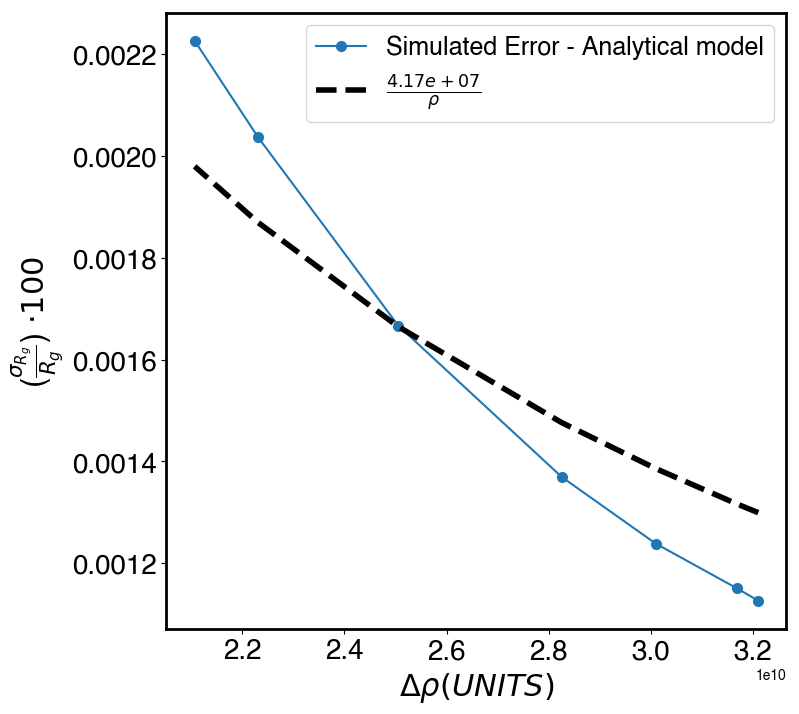
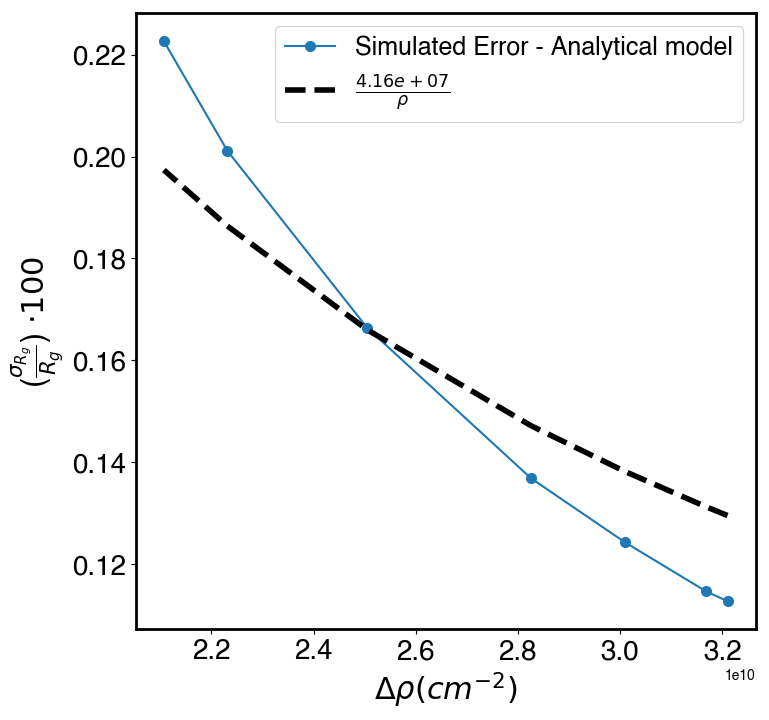
Really roughly added in experimental relative percent Rg error from Cytochrome C to compare to simulations. Need to clean up how this is integrated into the code. Simulation underpreicts error.

diff --git a/SAXSProf.py b/SAXSProf.py
@@ -203,19 +203,34 @@ rho, Rg_error_contrast, sig2_Rg_out = err_data.calc_errRg_contrast()
 err_data.plot_S1(rho, [x * 100 for x in Rg_error_contrast],
                  plotlabel= 'Simulated Error',
                  savelabel = 'Sim_err_Rg_func_of_Contrast',
-                 xlabel = '$\Delta \\rho (UNITS)$',
+                 xlabel = '$\Delta \\rho (cm^{-2})$',
                  ylabel = '($\\frac{\sigma_{R_{g}}}{R_{g}}$) $\cdot 100$')
 
 
 model, c, Rg_error_contrast = err_data.rgErr_contrast_model()
 
-err_data.plot_S2(rho, Rg_error_contrast, model,
+err_data.plot_S2(rho, [x * 100 for x in Rg_error_contrast], [x * 100 for x in model],
                  plotlabel1 = 'Simulated Error - Analytical model',
                  plotlabel2 = '$\\frac{%s}{\\rho}$' % "{:.2e}".format(c[0]),
                  savelabel = 'Sim_err_Rg_func_of_Contrast_w_InvRho',
-                 xlabel = '$\Delta \\rho (UNITS)$',
+                 xlabel = '$\Delta \\rho (cm^{-2})$',
                  ylabel = '($\\frac{\sigma_{R_{g}}}{R_{g}}$) $\cdot 100$')
 
+CytC_data = np.loadtxt("rgErr_Pressure_CytC.txt",
+                       dtype={'names': ('Pressure', 'Rg', 'RgErr', 'RgErrRel', 'RgErrRelPercent'),
+           'formats': (np.float, np.float, np.float, np.float, np.float)}, skiprows=2)
+rho.pop(2)
+popRho = rho
+Rg_error_contrast.pop(2)
+popRgErr = Rg_error_contrast
+exptData = np.array(CytC_data['RgErrRelPercent'])
+
+err_data.plot_S2(popRho, [x * 100 for x in popRgErr], exptData,
+                 plotlabel1 = 'Simulated Error - Analytical model',
+                 plotlabel2 = 'Experimental Cytochrome C Data',
+                 savelabel = 'SimandExpt_err_Rg_func_of_Contrast',
+                 xlabel = '$\Delta \\rho (cm^{-2})$',
+                 ylabel = '($\\frac{\sigma_{R_{g}}}{R_{g}}$) $\cdot 100$')
 
 ######################################################
 
